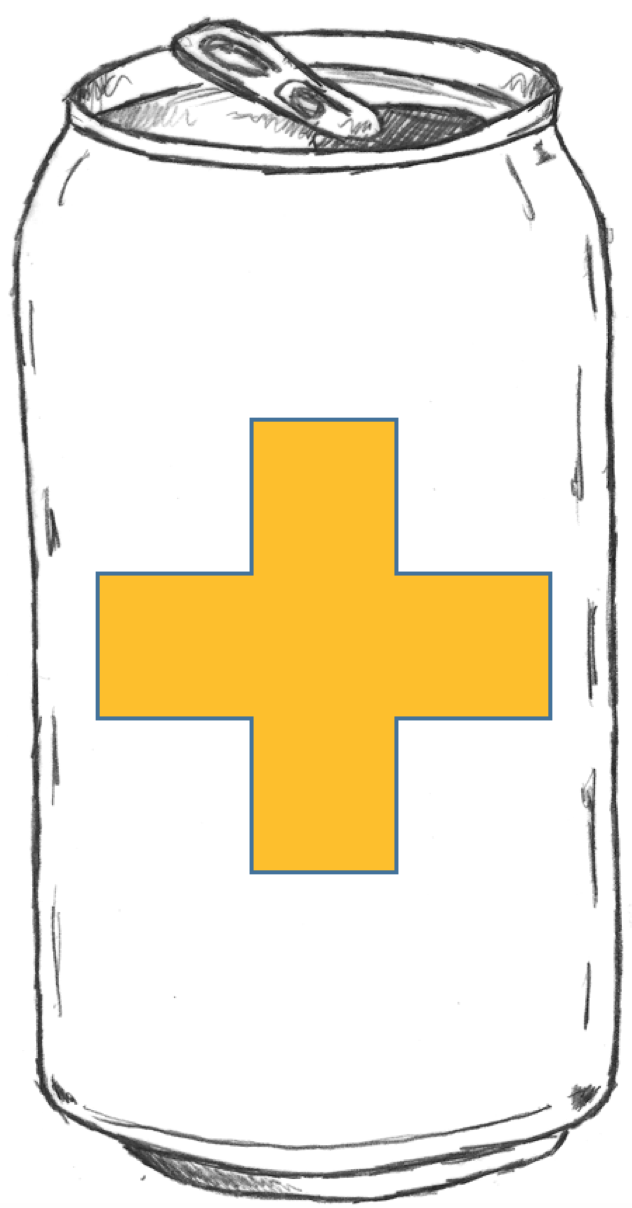
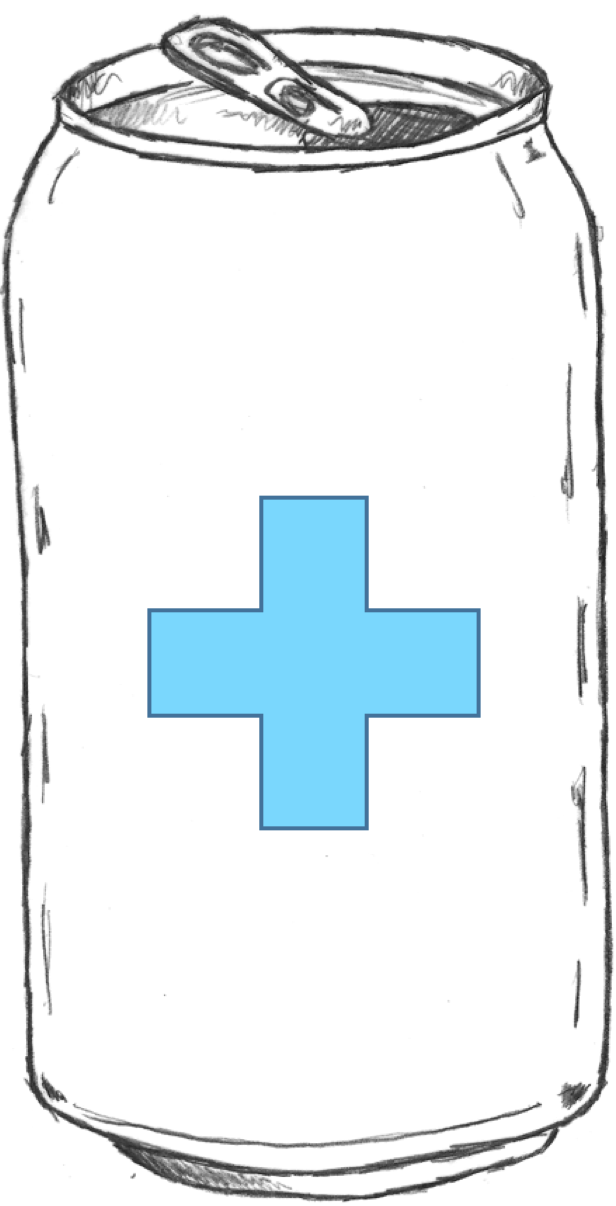
Revamps coloring of site to grey, red, blue
Coloring on site all changed

Changed region(s): [[0.0, 0.0, 1.0, 1.0], [0.1234, 0.3375, 0.8945, 0.7363]]

diff --git a/assets/styles/index.scss b/assets/styles/index.scss
@@ -9,23 +9,51 @@ $icon-font-path: '~bootstrap-sass/assets/fonts/bootstrap/';
   src: url('./museoslab_500_macroman/Museo_slab_500_2-webfont.ttf');
 }
 
+$beige: #dde0d8;
+$slate: #324554;
+// $slate: #4c4d5f;
+$dark-grey: #717580;
+$medium-grey: #a9a9a9;
+$light-grey: #efefef;
+$sky: #caebf2;
+$white: #fff;
 
 body {
-  background-color:  #E0FFFF;
+  background-color: $light-grey;
 }
 
-h1 {
-  text-align: center;
-  color: #FF9800;
-  font-size: 65px;
-  font-family: 'Cabin';
+.logo {
+  margin: 0 auto;
+  width: 40%;
 }
 
-p{
-  color: #212121;
+.login-incomplete {
+  color: $slate;
 }
 
-form{
+.navbar {
+  background-color: $white;
+  font-family: 'Raleway';
+  font-size: 24px;
+}
+
+.btn {
+  background-color: $medium-grey;
+}
+
+.btn:hover {
+  background-color: $dark-grey;
+}
+
+.btn:active {
+  background-color: $dark-grey;
+}
+
+p {
+  color: $slate;
+}
+
+form {
   font-family: 'Roboto Condensed';
   font-size: 20px;
 }
@@ -35,43 +63,30 @@ h2 {
   font-size: 24px;
 }
 
-.create-edit-beer{
-  background-color: #00BCD4;
-  color: #212121;
-}
-
-.profile-display{
-  font-family: 'Raleway';
-}
-
 h3 {
   font-size: 24px;
 }
 
-#signUpSignIn {
-  color: #FFFFFF;
+.well {
+  box-shadow: 1px 1px 2px $dark-grey, 0 0 25px $sky, 0 0 5px $medium-grey;
+  height: 300px;
+  margin: 10px;
 }
 
-.navbar{
-  background-color: #0097A7;
+.create-edit-beer {
+  background-color: $sky;
+  color: #212121;
+}
+
+.profile-display {
   font-family: 'Raleway';
-  font-size: 24px;
-}
-
-.btn {
-    background-color: #0097A7;
 }
 
 .add-beer-button {
-  width: 75px;
+  width: 65px;
 }
 
-.well {
-  margin: 10px;
-  height: 300px;
-}
-
-#handlebars {
+.handlebars-container {
   margin: 0 auto;
   width: 100%;
 }
@@ -80,8 +95,8 @@ li {
   list-style-type: none;
 }
 
-.rightNavButton{
-  background-color: white;
+.rightNavButton {
+  background-color: $white;
   border-style: none;
   text-align: center;
 }
@@ -91,22 +106,22 @@ li {
   margin-top: -120px;
 }
 
-.beer-display{
+.beer-display {
   margin: 0 auto;
   width: 80%;
 }
 
-#create-my-profile{
+#create-my-profile {
   width: 60%;
   margin: 0 auto;
 }
 
-#edit-my-profile-form{
-  width: 60%;
+#edit-my-profile-form {
   margin: 0 auto;
+  width: 60%;
 }
 
-.form-control{
+.form-control {
   margin: 10px 0;
 }
 

diff --git a/index.html b/index.html
@@ -100,41 +100,41 @@
         </div>
       </div>
     </div>
-  </div>
+  <!-- </div>
 </div>
-</div>
+</div> -->
 
 <!-- Title line -->
   <div class="container-fluid">
-    <div class="row">
-        <h1>Beer {Bracket}</h1>
+    <div class="row logo">
+        <!-- <h1>Beer {Bracket}</h1> -->
+        <img src="./assets/styles/img/beer_bracket_logo.png">
     </div>
     <br>
   <div class="row modalButtons">
 
-<input id="create-beers-button" disabled class="add-beer-button" type="image" src="./assets/styles/img/beer_can_img.png"  data-toggle="modal" data-target="#myBeersModal">
-<div class="modal fade" id="myBeerModal" tabindex="-1" role="dialog" aria-labelledby="myBeerModalLabel">
-  <div class="modal-dialog" role="document">
-    <div class="modal-content">
-      <div class="modal-header">
-        <button type="button" class="close" data-dismiss="modal" aria-label="Close"><span aria-hidden="true">&times;</span></button>
-        <h4 class="modal-title" id="myBeerModalLabel">Crushed another beer? Nice.</h4>
-      </div>
-      <div class="beer-modal-body">
-<!-- beer modal here -->
+    <input id="create-beers-button" disabled class="add-beer-button" type="image" src="./assets/styles/img/beer_can_img.png"  data-toggle="modal" data-target="#myBeersModal">
+    <div class="modal fade" id="myBeerModal" tabindex="-1" role="dialog" aria-labelledby="myBeerModalLabel">
+      <div class="modal-dialog" role="document">
+        <div class="modal-content">
+          <div class="modal-header">
+            <button type="button" class="close" data-dismiss="modal" aria-label="Close"><span aria-hidden="true">&times;</span></button>
+            <h4 class="modal-title" id="myBeerModalLabel">Crushed another beer? Nice.</h4>
+          </div>
+          <div class="beer-modal-body">
+    <!-- beer modal here -->
+          </div>
+        </div>
       </div>
     </div>
   </div>
 </div>
 
 <!-- Welcome message here -->
-<div id='welcome' class="container text-center">
-</div>
+  <div id='welcome' class="container text-center"></div>
 
   <!-- handlebars -->
-
-    <div id='handlebars' class="container text-center"></div>
-  </ul>
+  <div id='handlebars' class="container text-center handlebars-container"></div>
 
   </body>
 </html>
